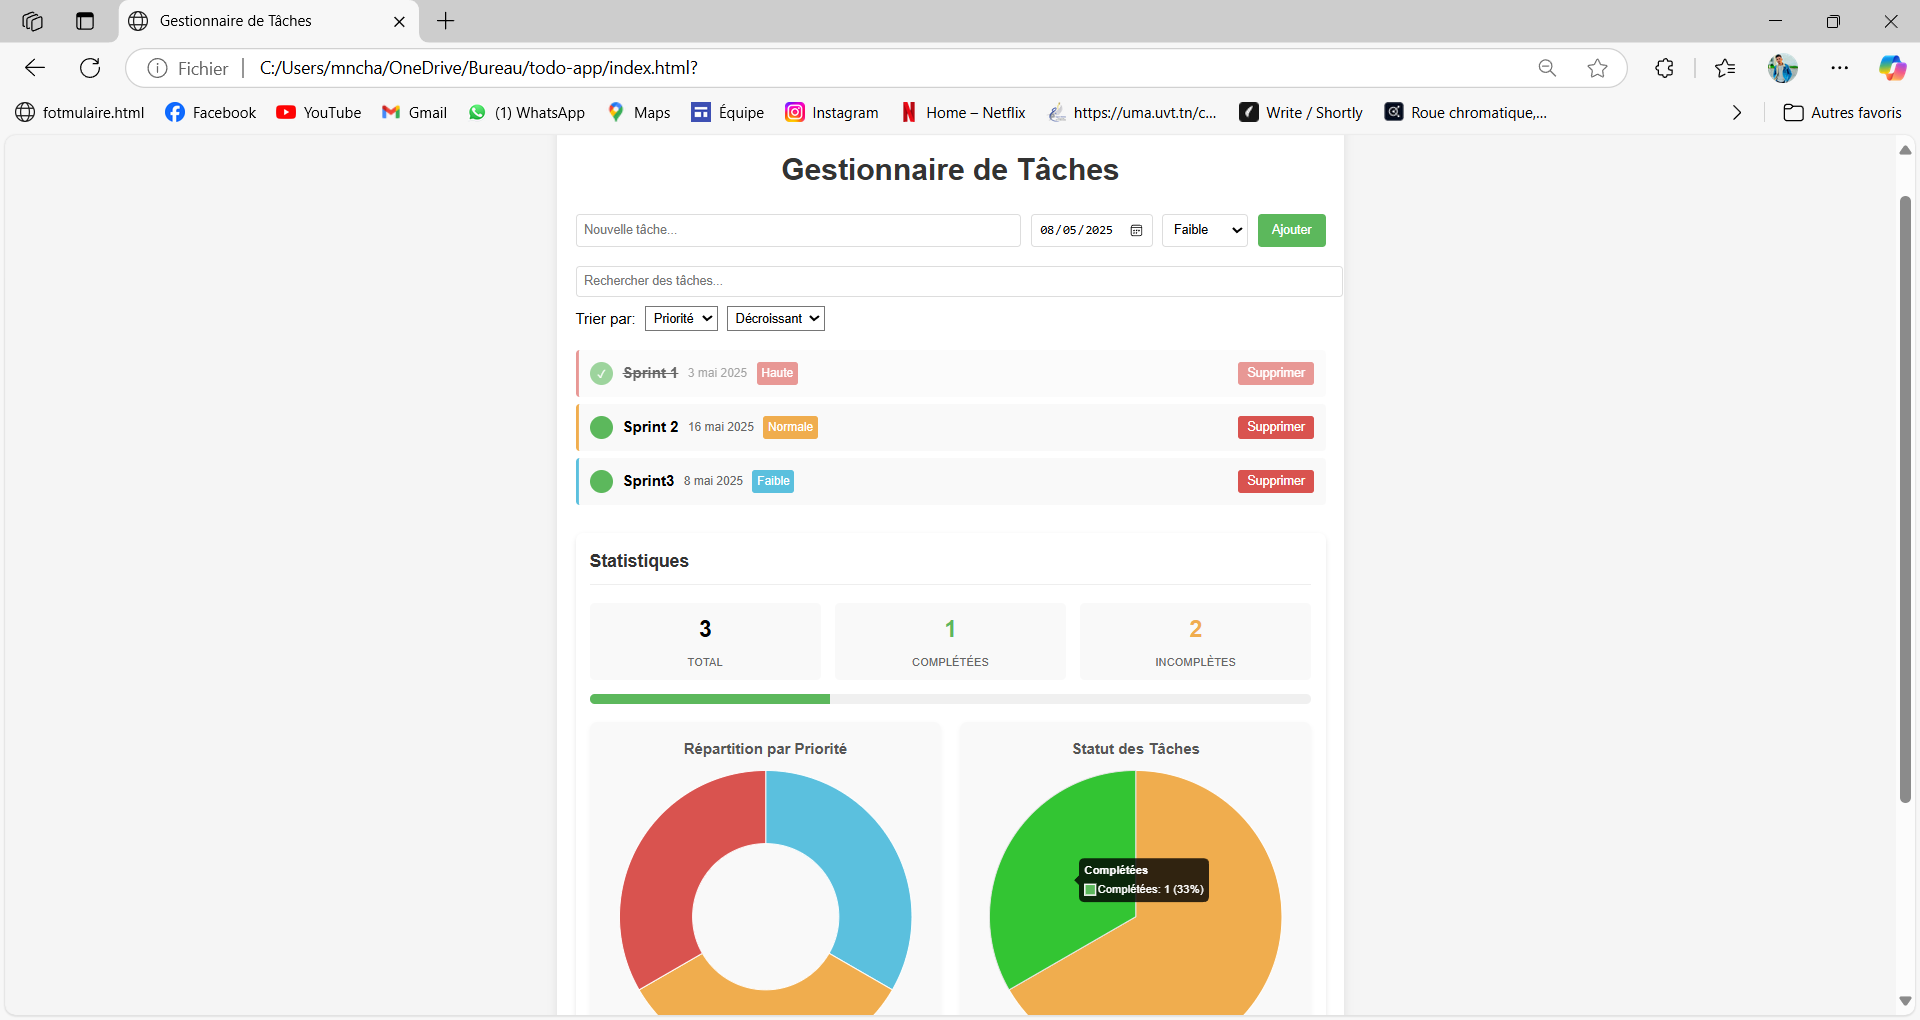
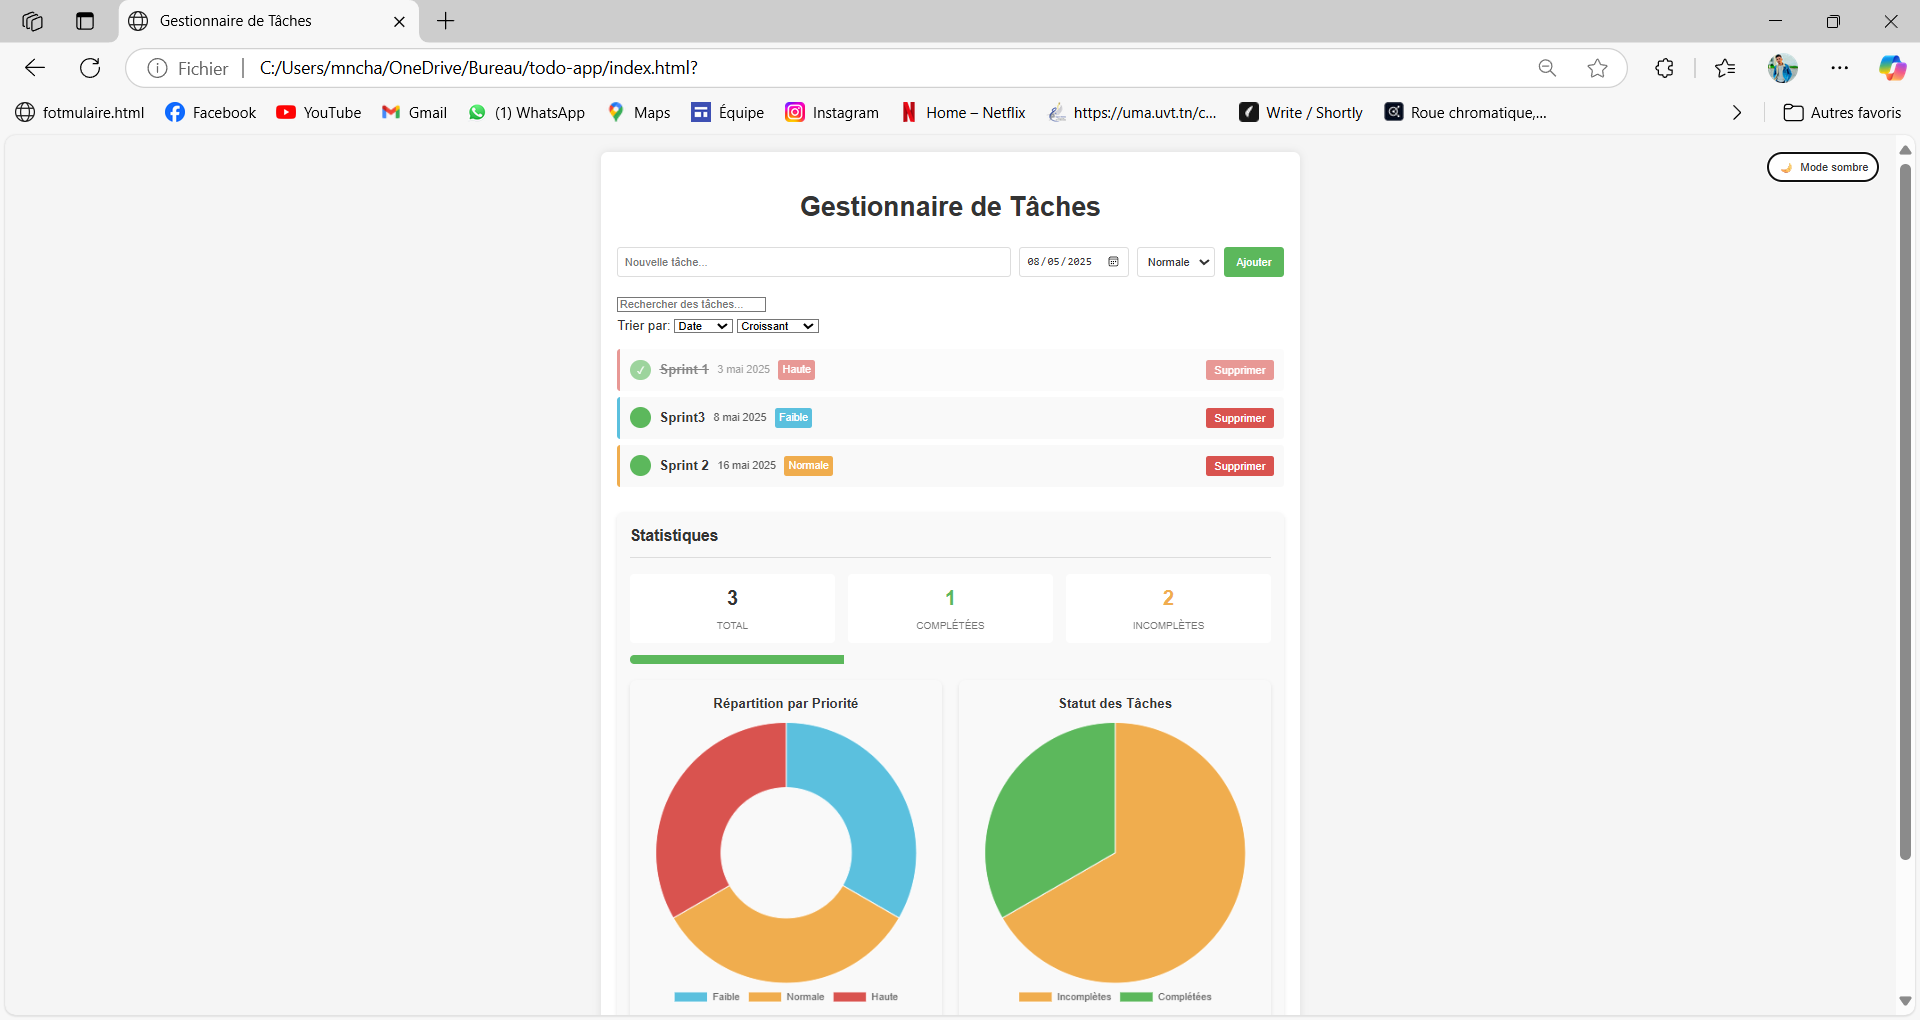
last commit

diff --git a/css/style.css b/css/style.css
@@ -1,25 +1,61 @@
+/* ========== Variables CSS ========== */
+:root {
+  /* Mode clair (défaut) */
+  --bg-color: #f5f5f5;
+  --container-bg: white;
+  --text-color: #333;
+  --task-bg: #f9f9f9;
+  --border-color: #ddd;
+  --stats-bg: #f9f9f9;
+  --chart-bg: #f9f9f9;
+  --footer-bg: #848383;
+  --input-bg: white;
+  --shadow-color: rgba(0,0,0,0.1);
+  --completed-opacity: 0.6;
+}
+
+/* Mode sombre */
+[data-theme="dark"] {
+  --bg-color: #1a1a1a;
+  --container-bg: #2d2d2d;
+  --text-color: #f0f0f0;
+  --task-bg: #3d3d3d;
+  --border-color: #444;
+  --stats-bg: #3d3d3d;
+  --chart-bg: #3d3d3d;
+  --footer-bg: #1e1e1e;
+  --input-bg: #3d3d3d;
+  --shadow-color: rgba(0,0,0,0.3);
+  --completed-opacity: 0.7;
+}
+
+/* ========== Styles de base ========== */
 body {
     font-family: 'Arial', sans-serif;
     line-height: 1.6;
     margin: 0;
     padding: 20px;
-    background-color: #f5f5f5;
+    background-color: var(--bg-color);
+    color: var(--text-color);
+    transition: background-color 0.3s ease, color 0.3s ease;
 }
 
 .container {
     max-width: 800px;
     margin: 0 auto;
-    background: white;
+    background: var(--container-bg);
     padding: 20px;
     border-radius: 8px;
-    box-shadow: 0 0 10px rgba(0,0,0,0.1);
+    box-shadow: 0 0 10px var(--shadow-color);
+    transition: background-color 0.3s ease, box-shadow 0.3s ease;
 }
 
 h1 {
     text-align: center;
-    color: #333;
+    color: var(--text-color);
 }
 
+/* ========== Styles du formulaire ========== */
 #task-form {
     display: flex;
     gap: 10px;
@@ -28,8 +64,11 @@ h1 {
 
 #task-form input, #task-form select {
     padding: 8px;
-    border: 1px solid #ddd;
+    border: 1px solid var(--border-color);
     border-radius: 4px;
+    background-color: var(--input-bg);
+    color: var(--text-color);
+    transition: all 0.3s ease;
 }
 
 #task-form input[type="text"] {
@@ -49,35 +88,14 @@ h1 {
     background: #4cae4c;
 }
 
-.controls {
-    margin-bottom: 20px;
-}
-
-#search-input {
-    width: 100%;
-    padding: 8px;
-    margin-bottom: 10px;
-    border: 1px solid #ddd;
-    border-radius: 4px;
-}
-
-.sort-options {
-    display: flex;
-    gap: 10px;
-    align-items: center;
-}
-
-.sort-options select {
-    padding: 5px;
-}
-
+/* ========== Styles des tâches ========== */
 #task-list {
     list-style: none;
     padding: 0;
 }
 
 #task-list li {
-    background: #f9f9f9;
+    background: var(--task-bg);
     margin-bottom: 8px;
     padding: 12px;
     border-radius: 4px;
@@ -113,7 +131,8 @@ h1 {
 
 .task-date {
     font-size: 0.8em;
-    color: #666;
+    color: var(--text-color);
+    opacity: 0.8;
     margin-right: 10px;
 }
 
@@ -171,7 +190,7 @@ h1 {
 }
 
 .completed {
-    opacity: 0.6;
+    opacity: var(--completed-opacity);
 }
 
 .completed .task-text {
@@ -180,24 +199,26 @@ h1 {
 
 .no-tasks {
     text-align: center;
-    color: #666;
+    color: var(--text-color);
+    opacity: 0.7;
     padding: 20px;
 }
 
-/* Dashboard Styles */
+/* ========== Dashboard ========== */
 .dashboard {
     margin-top: 30px;
     margin-bottom: 25px;
-    background: white;
+    background: var(--stats-bg);
     padding: 15px;
     border-radius: 8px;
-    box-shadow: 0 2px 5px rgba(0,0,0,0.1);
+    box-shadow: 0 2px 5px var(--shadow-color);
+    transition: all 0.3s ease;
 }
 
 .stats-card h3 {
     margin-top: 0;
-    color: #333;
-    border-bottom: 1px solid #eee;
+    color: var(--text-color);
+    border-bottom: 1px solid var(--border-color);
     padding-bottom: 10px;
 }
 
@@ -212,7 +233,7 @@ h1 {
     text-align: center;
     padding: 10px;
     border-radius: 5px;
-    background: #f9f9f9;
+    background: var(--container-bg);
 }
 
 .stat-value {
@@ -231,13 +252,14 @@ h1 {
 
 .stat-label {
     font-size: 12px;
-    color: #666;
+    color: var(--text-color);
+    opacity: 0.7;
     text-transform: uppercase;
 }
 
 .progress-container {
     height: 10px;
-    background: #f0f0f0;
+    background: var(--task-bg);
     border-radius: 5px;
     margin: 15px 0;
     overflow: hidden;
@@ -250,7 +272,7 @@ h1 {
     transition: width 0.5s ease;
 }
 
-/* Styles pour les graphiques */
+/* ========== Graphiques ========== */
 .chart-container {
     display: flex;
     gap: 20px;
@@ -259,21 +281,63 @@ h1 {
 
 .chart-card {
     flex: 1;
-    background: #f9f9f9;
+    background: var(--chart-bg);
     padding: 15px;
     border-radius: 8px;
-    box-shadow: 0 2px 5px rgba(0,0,0,0.05);
+    box-shadow: 0 2px 5px var(--shadow-color);
+    transition: all 0.3s ease;
 }
 
 .chart-card h4 {
     margin-top: 0;
     text-align: center;
-    color: #555;
+    color: var(--text-color);
     margin-bottom: 10px;
 }
 
+/* ========== Footer ========== */
+.app-footer {
+    background-color: var(--footer-bg);
+    color: white;
+    padding: 20px 0;
+    margin-top: 30px;
+    border-radius: 0 0 8px 8px;
+    transition: background-color 0.3s ease;
+}
 
+.footer-content {
+    max-width: 800px;
+    margin: 0 auto;
+    margin-left: 180px;
+    padding: 0 20px;
+    display: flex;
+    justify-content: space-between;
+    align-items: center;
+}
 
+/* ========== Bouton de thème ========== */
+.theme-toggle {
+    position: fixed;
+    top: 20px;
+    right: 20px;
+    background: var(--container-bg);
+    color: var(--text-color);
+    border: 1px solid var(--border-color);
+    padding: 8px 12px;
+    border-radius: 20px;
+    cursor: pointer;
+    display: flex;
+    align-items: center;
+    gap: 8px;
+    z-index: 1000;
+    transition: all 0.3s ease;
+}
+
+.theme-toggle:hover {
+    opacity: 0.9;
+}
+
+/* ========== Responsive ========== */
 @media (max-width: 768px) {
     .chart-container {
         flex-direction: column;
@@ -282,30 +346,17 @@ h1 {
     #task-form {
         flex-direction: column;
     }
-}
-/* Styles pour le footer */
-.app-footer {
-    background-color: #848383;
-    color: white;
-    padding: 20px 0;
-    margin-top: 30px;
-    border-radius: 0 0 8px 8px;
-}
-
-.footer-content {
-    max-width: 800px;
-    margin: 0 auto;
-    margin-left:  180px;
-    padding: 0 20px;
-    display: flex;
-    justify-content: space-between;
-    align-items: center;
-}
-
-
-@media (max-width: 600px) {
+    
     .footer-content {
+        margin-left: 0;
         flex-direction: column;
         text-align: center;
+    }
+    
+    .theme-toggle {
+        position: static;
+        margin: 10px auto;
+        display: flex;
+        justify-content: center;
     }
 }

diff --git a/js/themeManager.js b/js/themeManager.js
@@ -1,0 +1,35 @@
+class ThemeManager {
+    constructor() {
+        this.themeToggle = document.getElementById('theme-toggle');
+        this.currentTheme = localStorage.getItem('theme') || 'light';
+        
+        this.init();
+    }
+    
+    init() {
+        this.setTheme(this.currentTheme);
+        this.themeToggle.addEventListener('click', () => this.toggleTheme());
+    }
+    
+    setTheme(theme) {
+        document.documentElement.setAttribute('data-theme', theme);
+        localStorage.setItem('theme', theme);
+        
+        // Mettre à jour le texte et l'icône du bouton
+        const icon = theme === 'dark' ? '☀' : '🌙';
+        const text = theme === 'dark' ? 'Mode clair' : 'Mode sombre';
+        
+        this.themeToggle.querySelector('.icon').textContent = icon;
+        this.themeToggle.querySelector('.text').textContent = text;
+        
+        // Mettre à jour les graphiques si nécessaire
+        if (window.dashboard) {
+            window.dashboard.updateCharts();
+        }
+    }
+    
+    toggleTheme() {
+        this.currentTheme = this.currentTheme === 'light' ? 'dark' : 'light';
+        this.setTheme(this.currentTheme);
+    }
+}

diff --git a/index.html b/index.html
@@ -10,6 +10,10 @@
 <body>
     <div class="container">
         <h1>Gestionnaire de Tâches</h1>
+        <button class="theme-toggle" id="theme-toggle">
+            <span class="icon">🌙</span>
+            <span class="text">Mode sombre</span>
+        </button>
         
         <form id="task-form">
             <input type="text" id="task-input" placeholder="Nouvelle tâche..." required>
@@ -76,15 +80,16 @@
         </div>
         <footer class="app-footer">
             <div class="footer-content">
-                <p>Réalisé par : Chairat Aymen - Tous droits réservés © 2025 </p>
+                <p>Réalisé par : Chairat Aymen - Tous droits réservés © 2025</p>
             </div>
         </footer>
     </div>
 
     <script src="js/storage.js"></script>
-<script src="js/taskRenderer.js"></script>
-<script src="js/dashboard.js"></script>
-<script src="js/taskManager.js"></script>
-<script src="js/main.js"></script>
+    <script src="js/themeManager.js"></script>
+    <script src="js/taskRenderer.js"></script>
+    <script src="js/dashboard.js"></script>
+    <script src="js/taskManager.js"></script>
+    <script src="js/main.js"></script>
 </body>
 </html>

diff --git a/js/main.js b/js/main.js
@@ -1,3 +1,4 @@
 document.addEventListener('DOMContentLoaded', () => {
+    new ThemeManager();
     new TaskManager();
 });
